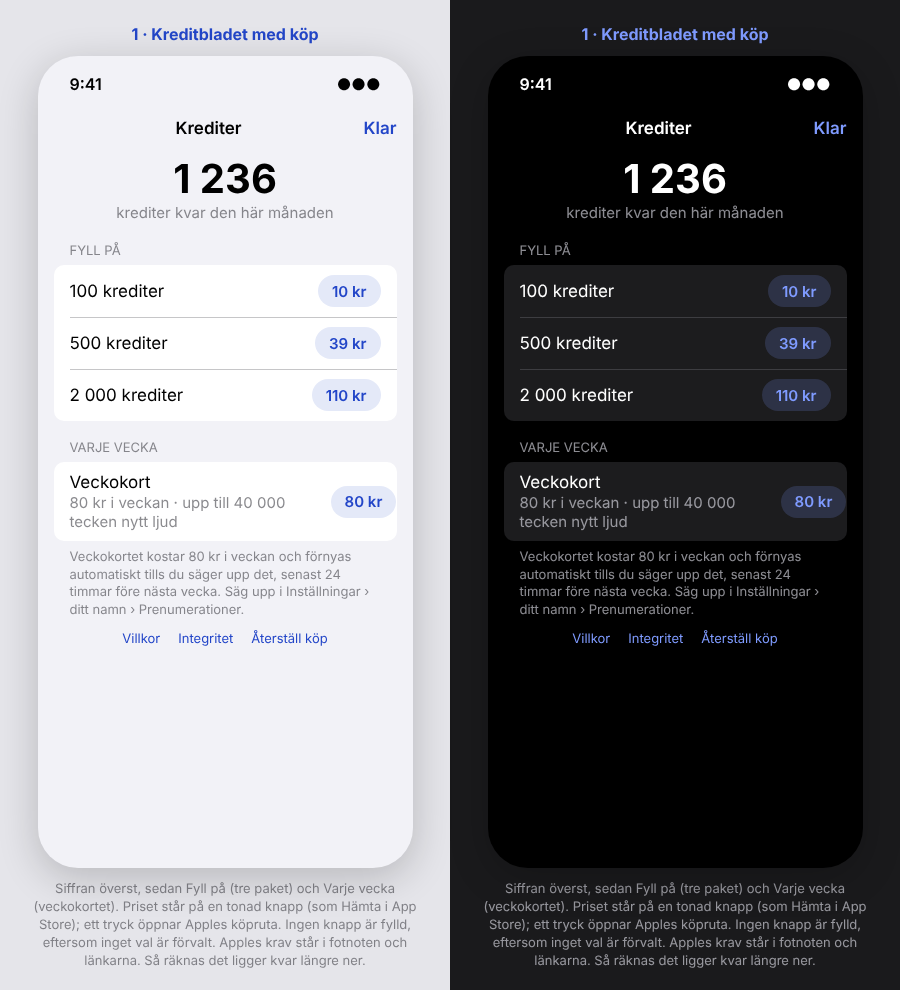
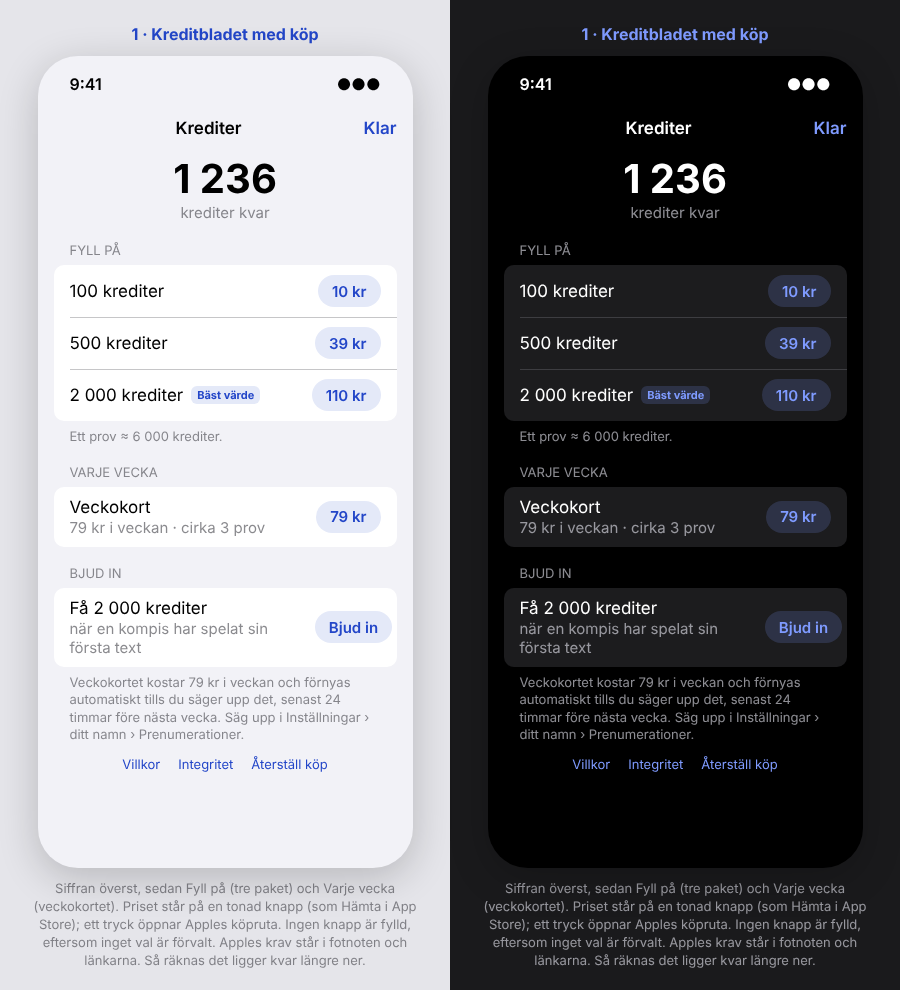
Kelly Ke77 (D224/D222): köpdelen med 79 kr, Bäst värde, välkomstkrediter och Bjud in; Ke78-rapport (utkast på grenen kelly/ke78-integritet, ej publicerat)
Claude-Session: https://claude.ai/code/session_01Pb1HG91PQFHjhJ97bHuAkn

diff --git a/docs/design/_src/kop.html b/docs/design/_src/kop.html
@@ -184,34 +184,40 @@ const senaste = `<div class="chips"><b>Senaste</b><span>HISTORIA – 1880–1918
 // ===== Ke73 (D218, D214) =====
 const price = (t, filled = false) => `<span style="flex:none;display:inline-flex;align-items:center;height:32px;padding:0 14px;border-radius:16px;font-size:15px;font-weight:600;${filled ? 'background:var(--tint);color:var(--ontint)' : 'background:var(--tintsoft);color:var(--tint)'}">${t}</span>`;
 const sheetTop = (title = 'Krediter') => `<div class="nav"><span></span><span class="t">${title}</span><a class="b">Klar</a></div>`;
-const legal = `<div class="sf">Veckokortet kostar 80 kr i veckan och förnyas automatiskt tills du säger upp det, senast 24 timmar före nästa vecka. Säg upp i Inställningar › ditt namn › Prenumerationer.</div>
+const legal = `<div class="sf">Veckokortet kostar 79 kr i veckan och förnyas automatiskt tills du säger upp det, senast 24 timmar före nästa vecka. Säg upp i Inställningar › ditt namn › Prenumerationer.</div>
   <div style="display:flex;justify-content:center;gap:18px;font-size:13px;padding:12px 0 0"><span class="tintc">Villkor</span><span class="tintc">Integritet</span><span class="tintc">Återställ köp</span></div>`;
+const badge = '<span style="font-size:11px;font-weight:700;color:var(--tint);background:var(--tintsoft);border-radius:6px;padding:2px 6px;margin-left:8px;vertical-align:2px">Bäst värde</span>';
 const packs = `<div class="sh">Fyll på</div><div class="sec">
   <div class="row">100 krediter<span class="v">${price('10 kr')}</span></div>
   <div class="row">500 krediter<span class="v">${price('39 kr')}</span></div>
-  <div class="row">2 000 krediter<span class="v">${price('110 kr')}</span></div></div>
-  <div class="sh">Varje vecka</div><div class="sec"><div class="row"><div>Veckokort<div class="sub">80 kr i veckan · upp till 40 000 tecken nytt ljud</div></div><span class="v">${price('80 kr')}</span></div></div>`;
-
+  <div class="row"><span>2 000 krediter${badge}</span><span class="v">${price('110 kr')}</span></div></div>
+  <div class="sf">Ett prov ≈ 6 000 krediter.</div>
+  <div class="sh">Varje vecka</div><div class="sec"><div class="row"><div>Veckokort<div class="sub">79 kr i veckan · cirka 3 prov</div></div><span class="v">${price('79 kr')}</span></div></div>
+  <div class="sh">Bjud in</div><div class="sec"><div class="row"><div>Få 2 000 krediter<div class="sub">när en kompis har spelat sin första text</div></div><span class="v">${price('Bjud in')}</span></div></div>`;
 add('blad', '1 · Kreditbladet med köp', 'Siffran överst, sedan Fyll på (tre paket) och Varje vecka (veckokortet). Priset står på en tonad knapp (som Hämta i App Store); ett tryck öppnar Apples köpruta. Ingen knapp är fylld, eftersom inget val är förvalt. Apples krav står i fotnoten och länkarna. Så räknas det ligger kvar längre ner.',
   () => `<div class="phone g">${status}${sheetTop()}<div class="content" style="padding-top:0">
-  <div style="text-align:center;padding:4px 0 2px"><div style="font-size:40px;font-weight:700">1 236</div><div style="font-size:15px;color:var(--sec)">krediter kvar den här månaden</div></div>
+  <div style="text-align:center;padding:4px 0 2px"><div style="font-size:40px;font-weight:700">1 236</div><div style="font-size:15px;color:var(--sec)">krediter kvar</div></div>
   ${packs}${legal}</div></div>`);
+
+add('valkommen', '0 · Första gången: välkomstkrediter', 'Kapseln visar 5 000 från början. Ingen ruta och ingen förklaring på första skärmen; i bladet står en rad om att det är välkomstkrediter.',
+  () => `<div class="phone g">${status}${sheetTop()}<div class="content" style="padding-top:0">
+  <div style="text-align:center;padding:4px 0 2px"><div style="font-size:40px;font-weight:700">5 000</div><div style="font-size:15px;color:var(--sec)">välkomstkrediter</div></div>${packs}</div></div>`);
 
 add('slut', '2 · Krediterna räcker inte', 'Raden vid Spela får "Fyll på" som länk. Den öppnar bladet. Inget mer på första skärmen.',
   () => `<div class="phone g">${status}${topBar('88 krediter kvar')}<div class="content">
   <div class="card2">${field(SAMPLE, 3, { min: true })}<div class="cost warn">120 krediter · du har 88 · <span style="color:#7F9BFF">Fyll på</span></div>${row({ go: false })}</div>
   ${nasta(true)}</div>${tb}</div>`);
 
-add('vecka', '3 · Med veckokort', 'Kapseln visar "Obegränsat". Bladet säger till när och vad som är kvar av veckans tak, och var man hanterar kortet. Paketen ligger kvar under, för den som vill.',
+add('vecka', '3 · Med veckokort', 'Kapseln visar "Veckokort" (D222). Bladet säger till när och vad som är kvar av veckans tak, och var man hanterar kortet. Paketen ligger kvar under, för den som vill.',
   () => `<div class="phone g">${status}${sheetTop()}<div class="content" style="padding-top:0">
-  <div style="text-align:center;padding:4px 0 2px"><div style="font-size:30px;font-weight:700">Obegränsat</div><div style="font-size:15px;color:var(--sec)">till 24 nov · 36 200 tecken kvar den här veckan</div></div>
+  <div style="text-align:center;padding:4px 0 2px"><div style="font-size:30px;font-weight:700">Veckokort</div><div style="font-size:15px;color:var(--sec)">till 24 nov · 16 200 av 20 000 tecken kvar i veckan</div></div>
   <div class="sec" style="margin-top:14px"><div class="row tintc">Hantera veckokortet</div></div>
-  <div class="sf">Förnyas automatiskt den 24 nov för 80 kr.</div>
+  <div class="sf">Förnyas automatiskt den 24 nov för 79 kr.</div>
   <div class="sh">Fyll på</div><div class="sec"><div class="row">100 krediter<span class="v">${price('10 kr', false)}</span></div><div class="row">500 krediter<span class="v">${price('39 kr', false)}</span></div><div class="row">2 000 krediter<span class="v">${price('110 kr', false)}</span></div></div>
   <div style="display:flex;justify-content:center;gap:18px;font-size:13px;padding:12px 0 0"><span class="tintc">Villkor</span><span class="tintc">Integritet</span><span class="tintc">Återställ köp</span></div></div></div>`);
 
-add('vecka-hem', '4 · Första skärmen med veckokort', 'Kapseln "Obegränsat". Kostnadsraden säger "Ingår". Allt annat som i Ke72.',
-  () => `<div class="phone g">${status}${topBar('Obegränsat')}<div class="content">
+add('vecka-hem', '4 · Första skärmen med veckokort', 'Kapseln "Veckokort". Kostnadsraden säger "Ingår". Allt annat som i Ke72.',
+  () => `<div class="phone g">${status}${topBar('Veckokort')}<div class="content">
   <div class="card2">${field(SAMPLE, 3, { min: true })}<div class="cost">Ingår</div>${row()}</div>${nasta(false)}</div>${tb}</div>`);
 
 add('se-kop', '5 · iPhone SE, största text', 'Raderna staplas: paketets namn över, prisknappen under, vänsterställd. Fotnoten och länkarna går att skrolla till.',

diff --git a/docs/design/kop.md b/docs/design/kop.md
@@ -1,37 +1,54 @@
-# Köp: kreditpaket och veckokort (Kelly (moln), Ke73, D218/D214, 2026-11-17)
+# Köp: kreditpaket och veckokort (Kelly (moln), Ke73 + Ke77, D218/D222/D224, 2026-11-17)
 
-Ett förslag till Angela Fable (A134). Bygger på kreditbladet (Ke71) och första skärmen (Ke72). Skisser i
+Ett förslag till Angela Fable (A134, A141). **Ke77 (D224):** veckokortet 79 kr och 20 000 tecken, "Bäst värde",
+ett prov ≈ 6 000 krediter, välkomstkrediter och inbjudan; kapseln "Veckokort" i stället för "Obegränsat" (D222). Bygger på kreditbladet (Ke71) och första skärmen (Ke72). Skisser i
 `bilder/kop/<id>.png` (ljust | mörkt), källa `_src/kop.html`, render `node docs/design/_src/kop-render.js`.
 **Skisser, inget byggt, inga riktiga köp** (StoreKit-konfigurationsfil i simulatorn, D218). Priserna sätts i App Store
 Connect, inte i koden; appen visar `Product.displayPrice`.
 
 ## 1. Kreditbladet med köp (`blad.png`)
-Uppifrån: rubrik **Krediter** · **Klar**, siffran **{1 236}** och **"krediter kvar den här månaden"**, sedan:
+Uppifrån: rubrik **Krediter** · **Klar**, siffran **{1 236}** och **"krediter kvar"**, sedan:
 | Avsnitt | Rad | Knapp |
 |---|---|---|
 | **FYLL PÅ** | 100 krediter | **10 kr** |
 | | 500 krediter | **39 kr** |
-| | 2 000 krediter | **110 kr** |
-| **VARJE VECKA** | **Veckokort** · *80 kr i veckan · upp till 40 000 tecken nytt ljud* | **80 kr** |
+| | 2 000 krediter · märket **Bäst värde** | **110 kr** |
+| *fotnot* | Ett prov ≈ 6 000 krediter. | |
+| **VARJE VECKA** | **Veckokort** · *79 kr i veckan · cirka 3 prov* | **79 kr** |
+| **BJUD IN** | **Få 2 000 krediter** · *när en kompis har spelat sin första text* | **Bjud in** (delningsbladet) |
+
+"Bäst värde" är ett litet tonat märke efter namnet, inte en fylld knapp. "Cirka 3 prov" = 20 000 / 6 000 (D224);
+taket står exakt i fotnoten och i villkoren.
 
 Prisknapparna är **tonade kapslar** (som "Hämta" i App Store), inte fyllda: inget val är förvalt. Ett tryck öppnar Apples
 köpruta (`product.purchase()`); under köpet visar knappen en snurra.
 
 Under: **fotnoten** (Apples krav för prenumerationer, riktlinje 3.1.2):
-"Veckokortet kostar 80 kr i veckan och förnyas automatiskt tills du säger upp det, senast 24 timmar före nästa vecka. Säg upp
+"Veckokortet kostar 79 kr i veckan och förnyas automatiskt tills du säger upp det, senast 24 timmar före nästa vecka. Säg upp
 i Inställningar › ditt namn › Prenumerationer."
 och länkraden **Villkor · Integritet · Återställ köp** (`AppStore.sync()`). Sist avsnittet **SÅ RÄKNAS DET** från Ke71.
+
+## 1b. Första gången (`valkommen.png`)
+Ett nytt konto har **5 000 välkomstkrediter** (en gång per telefon, D224). Kapseln på första skärmen visar **"5 000
+krediter kvar"** som vanligt; ingen ruta och ingen förklaring där. I bladet står under siffran **"välkomstkrediter"** i
+stället för "krediter kvar" tills de är slut. När månadens 1 500 läggs till står det "krediter kvar" igen.
+
+## 1c. Bjud in
+Raden **Bjud in** öppnar delningsbladet med en länk. Texten i länken: **"Plugga med EarMind. Du får 5 000 krediter att
+börja med."** När kompisen har spelat sin första text: en rad överst i bladet nästa gång, **"+2 000 krediter. {Namn}
+har börjat."** (utan namn om kompisen inte visar något: **"+2 000 krediter för en inbjudan."**). Efter 10 inbjudningar
+i månaden: undertexten blir **"Du har bjudit in 10 i månaden. Fler ger krediter nästa månad."** och knappen finns kvar.
 
 ## 2. Krediterna räcker inte (`slut.png`)
 Raden vid Spela (Ke72) får en länk: **"{120} krediter · du har {88} · Fyll på"**. "Fyll på" öppnar bladet. Vid 402
 från servern: samma rad (D212).
 
 ## 3. Med veckokort (`vecka.png`, `vecka-hem.png`)
-- Kapseln: **"Obegränsat"**. Kostnadsraden vid Spela: **"Ingår"**.
-- Bladet: **"Obegränsat"** stort, under **"till {24 nov} · {36 200} tecken kvar den här veckan"**, raden **Hantera
-  veckokortet** (`showManageSubscriptions`), fotnoten **"Förnyas automatiskt den {24 nov} för 80 kr."**, och paketen under
+- Kapseln: **"Veckokort"** (D222; "Obegränsat" bara för admin, D216). Kostnadsraden vid Spela: **"Ingår"**.
+- Bladet: **"Veckokort"** stort, under **"till {24 nov} · {16 200} av 20 000 tecken kvar i veckan"**, raden **Hantera
+  veckokortet** (`showManageSubscriptions`), fotnoten **"Förnyas automatiskt den {24 nov} för 79 kr."**, och paketen under
   (tonade) med samma länkrad.
-- När veckans 40 000 tecken är slut: kostnadsraden **"Veckans tak är nått · Fyll på"** och Spela grå tills nästa vecka
+- När veckans 20 000 tecken är slut: kostnadsraden **"Veckans tak är nått · Fyll på"** och Spela grå tills nästa vecka
   eller ett paket.
 
 ## 4. Största text (`se-kop.png`)
@@ -40,20 +57,26 @@ Raderna staplas: namnet över, prisknappen under, vänsterställd. Fotnoten och 
 ## 5. Texter
 | Ställe | Text |
 |---|---|
-| Avsnitt | FYLL PÅ · VARJE VECKA · SÅ RÄKNAS DET |
+| Avsnitt | FYLL PÅ · VARJE VECKA · BJUD IN · SÅ RÄKNAS DET |
 | Paket | {100} krediter · *knapp* {10 kr} |
-| Veckokort | Veckokort · {80 kr} i veckan · upp till 40 000 tecken nytt ljud |
-| Fotnot | Veckokortet kostar {80 kr} i veckan och förnyas automatiskt tills du säger upp det, senast 24 timmar före nästa vecka. Säg upp i Inställningar › ditt namn › Prenumerationer. |
-| Länkar | Villkor · Integritet · Återställ köp |
+| Märke | Bäst värde (bara på 2 000) |
+| Fotnot under paketen | Ett prov ≈ 6 000 krediter. |
+| Veckokort | Veckokort · {79 kr} i veckan · cirka 3 prov |
+| Fotnot (krav 3.1.2) | Veckokortet kostar {79 kr} i veckan och förnyas automatiskt tills du säger upp det, senast 24 timmar före nästa vecka. Säg upp i Inställningar › ditt namn › Prenumerationer. |
+| Länkar | Villkor · Integritet · Återställ köp (Villkor → earmind.vercel.app/villkor, Integritet → /integritet, Ke78, när Aron har sagt ja) |
+| Första gången, bladet | 5 000 · välkomstkrediter |
+| Bjud in, rad | Få 2 000 krediter · när en kompis har spelat sin första text · *knapp* Bjud in |
+| Bjud in, länktext | Plugga med EarMind. Du får 5 000 krediter att börja med. |
+| Inbjudan klar | +2 000 krediter. {Namn} har börjat. / +2 000 krediter för en inbjudan. |
+| Tio i månaden | Du har bjudit in 10 i månaden. Fler ger krediter nästa månad. |
 | Räcker inte | {120} krediter · du har {88} · Fyll på |
-| Med veckokort, kapsel / kostnad | Obegränsat / Ingår |
-| Med veckokort, bladet | Obegränsat · till {24 nov} · {36 200} tecken kvar den här veckan · Hantera veckokortet · Förnyas automatiskt den {24 nov} för {80 kr}. |
+| Med veckokort, kapsel / kostnad | Veckokort / Ingår |
+| Med veckokort, bladet | Veckokort · till {24 nov} · {16 200} av 20 000 tecken kvar i veckan · Hantera veckokortet · Förnyas automatiskt den {24 nov} för {79 kr}. |
 | Veckans tak nått | Veckans tak är nått · Fyll på |
 | Köpet misslyckades | Köpet gick inte igenom. Inget har dragits. |
 | Återställ, inget att hämta | Det fanns inga köp att hämta. |
 
-## 6. Till Deangelo: ordet "Obegränsat"
-Veckokortet har ett tak (40 000 tecken i veckan, D218). "Obegränsat" i kapseln kan läsas som en lovad egenskap som inte
-stämmer, och App Store granskar sådant (riktlinje 2.3 och 3.1.2). Jag visar taket på varje ställe där kortet säljs och
-beskrivs ("upp till 40 000 tecken nytt ljud"). Vill Deangelo vara säker: kapseln **"Veckokort"** i stället för
-"Obegränsat". Jag har ritat "Obegränsat" som uppdraget säger.
+Priserna i texterna är exempel: appen visar `Product.displayPrice` (D218), så "79 kr" kommer från App Store Connect.
+
+## 6. Ordet "Obegränsat" (avgjort, D222)
+Prenumeranter ser **"Veckokort"**. "Obegränsat" finns bara för admin (D216), där det är sant.

diff --git a/prompts/queue/kelly.md b/prompts/queue/kelly.md
@@ -192,7 +192,7 @@ Aron (2026-11-08): demosidan måste bli väldigt bra.
 - [x] klar 2026-11-17 08:31 → reports/2026-11-17-0831-kelly-ke70-vercel-live.md (allt grönt: 200, og-bild, väntelistan och CORS) **Ke70 – Livekontroll av earmind.vercel.app** (effort: low). Lagd av Deangelo 2026-11-17 08:30. Projektet finns nu (Aron raderade ett gammalt, Deangelo skapade `earmind` med rot site/). Kör kelly-site-check.yml: 200, storlek, og-bild, väntelistan med testadress och CORS från earmind.vercel.app. Fynd till rätt kö. Rapport, push.
 - [x] klar 2026-11-17 09:39 → reports/2026-11-17-0939-kelly-granskning-a122-a124.md **Granskning av A122 och A124** (Kelly (moln), på Angela Fables begäran). Godkänt.
 
-- [x] klar 2026-11-17 14:29 → reports/2026-11-17-1429-kelly-ke71-krediter-ord.md (orden i sag-i-airpods.md, A130 godkänd, site/ behöver inget) **Ke71 – Ord för krediter per tecken (D213)** (effort: medium). Lagd av Deangelo 2026-11-17 14:05. Arons beslut: 1 kredit per tecken nytt ljud, 1 500 i månaden. Granska Angela Fables ord i A131 (kapseln, Säg-raden, provkortet, kreditbladet, 402-texten) så att det är lätt att förstå på en gång. Ändra demosidan (site/) där den säger frågor per månad. Bilder, rapport, push.
+- [x] klar 2026-11-17 14:29 → reports/2026-11-17-1429-kelly-ke71-krediter-ord.md (orden i sag-i-airpods.md, A130 godkänd, site/ behöver inget) **Ke71 – Ord för krediter per tecken (D213)** (effort: medium). Lagd av Deangelo 2026-11-17 14:05. Arons beslut: 1 kredit per tecken nytt ljud, 1 500 i månaden. Granska Angela Fables ord i A131 (kapseln, Säg-raden, provkortet, kreditbladet, 402-texten) så att det är lätt att förstå på en gång. Ändra demosidan (site/) där den säger frågor per månad. Bilder, rapport, push. **Klar 21:24** (Kelly (moln)): `reports/2026-11-17-2124-kelly-ke77-kop-d224.md`.
 - [x] klar 2026-11-17 15:00 → reports/2026-11-17-1500-kelly-granskning-a131.md **Granskning av A131** (Kelly (moln)). Godkänt ordagrant; L1 fotnoten skärs av, L2 provkortet och SE inte sedda.
 
 - [x] klar 2026-11-17 18:06 → reports/2026-11-17-1806-kelly-ke72-forsta-skarmen.md (docs/design/forsta-skarmen.md + 8 skisser) **Ke72 – Första skärmen enligt D215** (prio 1, effort: high). Lagd av Deangelo 2026-11-17 18:10. Aron 18:01: första skärmen är viktigast, man ska direkt och väldigt lätt kunna skriva vad AI ska säga och hur länge, och tydliga saker ska inte förklaras. Utgå från reports/2026-11-17-a131-bilder/ och Arons skärmbild reports/apptest/aron-2026-11-17-1348-spela-inget-hander.png. Gör ett förslag (inte flera) i docs/design/forsta-skarmen.md med exakta ord, avstånd och vilken knapp som är fylld, och bilder för: tomt fält, fält med text, lång text (5 rader och skroll), spelar (tid kvar, ⏸), slut på krediter, Senaste-raden, iPhone SE med största text, ljust och mörkt. Pröva också om "⟲ 10 min" kan läsas som "om 10 minuter"; välj ord som inte kan missförstås (D210). Rapport, tavla, push. Angela Fable bygger efter ditt förslag (A132).
@@ -205,6 +205,6 @@ Aron (2026-11-08): demosidan måste bli väldigt bra.
 
 - [x] klar 2026-11-17 20:55 → reports/2026-11-17-2055-kelly-ke76-appstore-granskning.md (docs/appstore/granskning.md; hög: testläget D140 i release) **Ke76 – Underlag till App Store-granskningen (D218 punkt 4)** (effort: high). Lagd av Deangelo 2026-11-17 21:00. I docs/appstore/: (1) beskrivning, undertitel och nyckelord på svenska och engelska, utan påståenden som appen inte klarar och utan något som antyder dold användning; (2) integritetsuppgifterna ("App Privacy") enligt vad appen och servern faktiskt samlar (läs ARCHITECTURE och DECISIONS, D21 samtycke, inget ljud sparas som standard); (3) granskningsanteckningar till Apple: hur samtycket och lyssningsindikatorn fungerar, att Säg i AirPods är synlig uppspelning (D203, D210), testkonto (inga lösenord i repot, skriv bara att Aron lägger in det), prenumerationens villkor. Markera allt du inte kunnat verifiera. Rapport, push.
 
-- [ ] **Ke77 – Ord och bild för välkomstkrediter, inbjudan och 79 kr (D224)** (effort: medium). Lagd av Deangelo 2026-11-17 21:15. Uppdatera docs/design/kop.md: veckokortet 79 kr, 20 000 tecken i veckan (säg det som cirka 3 prov), "Bäst värde" på 2 000, "Ett prov ≈ 6 000 krediter", välkomstkrediterna 5 000 och inbjudan (2 000 till den som bjuder in). Kort, inget självklart förklarat. Bilder, rapport, push.
+- [x] **Ke77 – Ord och bild för välkomstkrediter, inbjudan och 79 kr (D224)** (effort: medium). Lagd av Deangelo 2026-11-17 21:15. Uppdatera docs/design/kop.md: veckokortet 79 kr, 20 000 tecken i veckan (säg det som cirka 3 prov), "Bäst värde" på 2 000, "Ett prov ≈ 6 000 krediter", välkomstkrediterna 5 000 och inbjudan (2 000 till den som bjuder in). Kort, inget självklart förklarat. Bilder, rapport, push.
 
-- [ ] **Ke78 – Integritetspolicy och villkor som sidor på earmind.vercel.app (D218 punkt 4)** (effort: high). Lagd av Deangelo 2026-11-17 21:25. Apple kräver en länk till integritetspolicyn och, för prenumerationen, till villkoren. Skriv /integritet och /villkor (svenska, med engelsk version) utifrån det appen och servern faktiskt gör: samtycke (D21), lyssningsindikatorn, inget ljud sparas som standard, vad som skickas till Anthropic och ElevenLabs, analysloggen (D197, raderas inom 14 dagar), konto och radering, köp och prenumeration (D224), kontakt Rothman Solutions AB. Markera allt du inte kunnat verifiera, så att Aron kan läsa igenom innan det publiceras. Lägg det på en gren och visa bilder; slå inte ihop till main förrän Aron har sagt ja. Rapport, push.
+- [x] **Ke78 – Integritetspolicy och villkor som sidor på earmind.vercel.app (D218 punkt 4)** (effort: high). Lagd av Deangelo 2026-11-17 21:25. Apple kräver en länk till integritetspolicyn och, för prenumerationen, till villkoren. Skriv /integritet och /villkor (svenska, med engelsk version) utifrån det appen och servern faktiskt gör: samtycke (D21), lyssningsindikatorn, inget ljud sparas som standard, vad som skickas till Anthropic och ElevenLabs, analysloggen (D197, raderas inom 14 dagar), konto och radering, köp och prenumeration (D224), kontakt Rothman Solutions AB. Markera allt du inte kunnat verifiera, så att Aron kan läsa igenom innan det publiceras. Lägg det på en gren och visa bilder; slå inte ihop till main förrän Aron har sagt ja. Rapport, push. **Klar som utkast 21:23** på grenen `kelly/ke78-integritet` (18 overifierade punkter gulmarkerade, inte publicerat): `reports/2026-11-17-2123-kelly-ke78-integritet-villkor.md`.

diff --git a/docs/STATUS.md b/docs/STATUS.md
@@ -103,6 +103,8 @@ Last updated: 2026-11-08 by Angela (builder).
 - **Angela Schrute (moln), 2026-11-15 04:03: Toby 2:s T24-fynd L2–L6 klara, iOS build 43670110088 grön (8a521b1), ej verifierat på enhet.** Ett importerat prov namnges efter första frågan, ChatGPTs inledning och avslutning hoppas över tyst, `model.quotaIsKnown` för Nytt prov (vyn: Angela Fable), "Ljudet kan inte göras just nu" vid första otillgängliga fil (orsaken till 40 s inte hittad), "Ljudet dröjer" efter 20 s utan nytt ljud. Kvar i kön: A3 (väntar på K6). → `reports/2026-11-15-0400-angela-t24-fynd-l2-l6.md`
 - **Angela Schrute (moln), 2026-11-15 03:52: A105 klar, läslägets logik (D185, D188), iOS build 43667072023 grön (ec54ced), ej verifierat på enhet.** En text är ett prov med `kind` text och delar ur K70 (/exam read, /drill save/get med meningar och tider), nedladdad och spelbar utan nät. `ReadingPlayer`: 1 tryck pausa/fortsätt från meningens början, 2 nästa mening, 3 förra, via AirPods, Kontrollcenter och skärmen; tryck på en mening; slutet stannar med Börja om; platsen sparas per text; låsskärmen visar rubriken. 22 tester. Vyerna är Angela Fables A106, sedan Toby 1 T28. → `reports/2026-11-15-0325-angela-a105-laslage.md`
 - **Angela Schrute (moln), 2026-11-15 03:13: A103 klar, iOS build 43664558381 grön (982a976), ej verifierat på enhet.** Ett nedladdat prov spelas helt utan nät (D186): ljudet i Application Support utanför iCloud-säkerhetskopian, oanvända filer bort vid start, nedladdningen väntar på nätet och fortsätter själv, full telefon sägs, `RepetitionModel.isOffline` och en text för inget nät. Toby 1 T27 nästa. A105 (läsläget) pågår. → `reports/2026-11-15-0313-angela-a103-utan-nat.md`
+- **Kelly (moln), 2026-11-17 21:24: Ke77 klar.** Köpdelen enligt D224/D222: veckokort 79 kr ("cirka 3 prov"), "Bäst värde" på 2 000, "Ett prov ≈ 6 000 krediter", välkomstkrediter (5 000) och Bjud in (2 000), kapseln "Veckokort" för prenumeranter. `docs/design/kop.md`, rapport `reports/2026-11-17-2124-kelly-ke77-kop-d224.md`.
+- **Kelly (moln), 2026-11-17 21:23: Ke78 utkast, inte publicerat.** /integritet och /villkor på grenen `kelly/ke78-integritet`, 18 overifierade punkter gulmarkerade (bl.a. org.nr, testläget D140, radera konto i appen, 14 dagar eller "efter leverans"). **Aron läser och säger ja** innan grenen slås ihop. Rapport `reports/2026-11-17-2123-kelly-ke78-integritet-villkor.md`.
 - **Kelly (moln), 2026-11-17 20:58: Ke74 klar.** 5 App Store-förslag (`docs/appstore/69-*.jpg`, Pro Max men nedskalade, rubriker utan låst skärm) och demosidan med nya första skärmen som steg 1. **Vercel publicerar från grenen kelly/ke66-earmind-site, inte main**: grenen snabbspolad; Production Branch bör ändras till main (Aron/Deangelo). Rapport `reports/2026-11-17-2058-kelly-ke74-appstore-demosida.md`.
 - **Kelly (moln), 2026-11-17 20:55: Ke76 klar.** Underlaget till App Store-granskningen i `docs/appstore/granskning.md`: texter på svenska och engelska, integritetsuppgifter (spårning nej, anonymt konto), granskningsanteckningar på engelska; allt overifierat markerat. **Före inskickning:** testläget (D140) bort ur release eller deklareras (hög), kamerans Info.plist-text är fel, integritetspolicy saknas, åldersgräns med Rizz. Rapport `reports/2026-11-17-2055-kelly-ke76-appstore-granskning.md`.
 - **Kelly (moln), 2026-11-17 20:36: Ke73 klar.** Köpdelen (D218) i `docs/design/kop.md` med 5 skisser: paketen 100/500/2 000 och veckokortet i kreditbladet med tonade prisknappar, Apples krav (förnyelse, uppsägning, Villkor/Integritet/Återställ köp), "Fyll på" vid Spela. **Risk till Deangelo:** "Obegränsat" med ett tak på 40 000 tecken i veckan kan ses som vilseledande. Villkor- och integritetssidor behövs före inlämning. Rapport `reports/2026-11-17-2036-kelly-ke73-kop.md`.

diff --git a/reports/2026-11-17-2123-kelly-ke78-integritet-villkor.md b/reports/2026-11-17-2123-kelly-ke78-integritet-villkor.md
@@ -1,0 +1,51 @@
+# Ke78: integritetspolicy och villkor som sidor (Kelly (moln), 2026-11-17)
+
+**UTKAST på grenen `kelly/ke78-integritet` (commit d408604). Inte ihopslaget med main och inte publicerat.** Aron läser
+och säger ja först.
+
+## Vad som gjordes
+- `docs/legal/integritet.md` och `docs/legal/villkor.md`: texterna (svenska först, kort engelsk version under), skrivna
+  utifrån koden, besluten (D21, D135, D140, D197, D213, D218, D224) och servern.
+- `scripts/site/legal-page.py`: gör `site/integritet.html` och `site/villkor.html` av markdown-filerna, i demosidans stil
+  (ljust/mörkt). Det som inte är verifierat skrivs `[[O: …]]` i källan och syns som **gul markering "Overifierat: …"**,
+  med en gul utkastruta överst och `noindex`. `python3 scripts/site/legal-page.py --publish` vägrar så länge någon
+  markering finns kvar.
+- Adresser när de publiceras: `earmind.vercel.app/integritet` och `/villkor` (cleanUrls i vercel.json).
+
+## Bilder (iPhone 15 i Chromium, ingen sidled skroll)
+`reports/2026-11-17-ke78-bilder/integritet-light.jpg`, `integritet-dark.jpg`, `villkor-light.jpg`, `villkor-dark.jpg`.
+
+## Overifierat (18 markeringar: 13 i integritet, 5 i villkor) – Aron eller Deangelo svarar
+**Integritet**
+1. Organisationsnummer och postadress för Rothman Solutions AB saknas.
+2. Att lagringen av foton töms efter varje prov (K53) är inte kontrollerat i databasen.
+3. Analysen av frågor och svar: uppdraget säger "raderas inom 14 dagar", D197 säger "efter leverans". Aron väljer.
+4. Om sammanfattningen i Fler lägen sparas på telefonen eller servern.
+5. **Testläget (D140)** skickar bakgrundsljud. Ska bort ur App Store-versionen; finns det kvar måste det stå i policyn.
+6. ElevenLabs: land och avtal för överföring.
+7. Överföring till USA: standardavtalsklausuler eller Data Privacy Framework, per leverantör.
+8. Hur länge loggarna (utan text) sparas.
+9. **Knapp för att radera kontot i appen saknas** (Apple 5.1.1(v) kräver den om appen räknas ha konton; ett anonymt
+   konto kan räknas).
+10. Åldersgräns (13 år i texten, App Store-gränsen inte bestämd).
+11–13. Samma punkter i den engelska delen (lagring, analys, organisationsnummer).
+
+**Villkor**
+14. Välkomstkrediterna (5 000, D224) är inte byggda.
+15. Inbjudan (2 000, max 10/månad) är inte byggd.
+16. Om köpta krediter förfaller.
+17. Organisationsnummer och adress.
+18. Engelska: välkomst och inbjudan inte byggda.
+
+Märkning: innehållet om anonymt konto, Supabase i Stockholm/Frankfurt, att Starta prov och Säg aldrig använder
+mikrofonen, samtycke före mikrofon (D21) och att EarMind inte sparar ljud är **verifierat i docs/kod**. Inget är
+**verifierat på telefon**. Juridisk granskning är inte gjord (**untested assumption** att texten räcker för Apple och GDPR).
+
+## Så publiceras det (efter Arons ja)
+1. Rätta eller stryk varje `[[O: …]]` i `docs/legal/*.md`.
+2. `python3 scripts/site/legal-page.py --publish` (måste gå igenom).
+3. Slå ihop grenen till main **och** snabbspola `kelly/ke66-earmind-site` (Vercels produktionsgren).
+4. Lägg in `https://earmind.vercel.app/integritet` i App Store Connect och länkarna i köpbladet (A134).
+
+## Nästa
+Ke77 (köpdelen) i samma runda; sedan granskning av A133/A135/A136 när bilderna kommer.

diff --git a/prompts/queue/BOARD.md b/prompts/queue/BOARD.md
@@ -24,5 +24,5 @@ Kolumnerna:
 | Toby (apptest) | Opus 5.5 (claude-opus-5-5) | (sessionens inställning) | Toby 1: lokal: överlämnad till molnet · Toby 2: lokal: överlämnad till molnet | Toby 1: lokal: överlämnad till molnet 02:48 · Toby 2: lokal: överlämnad till molnet (T24 på toby/t24 b903f59, två testpubliceringar väntar på Arons besked; docs/HANDOVER-toby.md) | Toby 1: T26: T17 48/50 tre gånger, fynd 9/9b 10/10; D184, T27, T28 till molnet · Toby 2: T24 (43661618294): hela flödet med två konton går, D183 omtestat grönt; fynd L1–L6 till Angela Schrute, V1–V4 till Angela Fable → reports/apptest/2026-11-15-0250-toby2-t24-hela-flodet.md | Toby 1: 2026-11-15 02:48 · Toby 2: 2026-11-15 02:48 | Toby 1: docs/HANDOVER-toby.md · Toby 2: simulatorn, inte enhet |
 | Toby (moln) | Opus 5.5 (claude-opus-5-5) | medium | T51 (A137): nattflödet 44163428569 på grenen körs (högst 2 maskiner); T46: T36-testet för A132 körs på toby/t46 (44163010444) | pågår | **20:40:** T45 klar: A128-grenen alla sex gröna (T24 och T30 testmiljön första gången, gröna i omkörningen 44153981780), besked i angela.md. T47 klar: nattflödet max-parallel 2, och nytt val `only` för att köra om enstaka tester. T46: det mesta i A132 håller i Simulator (Spela på kortet, tid kvar, Stoppa, Senaste lägger tillbaka texten, inget Nästa prov); Pausa på kortet och fältets 5 rader körs om. T44 väntar på Kevin. **Aron:** testpubliceringen 3afc21d0 finns kvar, tas bort bara på ditt ja. |
 | Kelly (demosida) | Opus 5.5 (claude-opus-5-5) | (sessionens inställning) | – | lokal: överlämnad till molnet | Ke49–Ke62 klara; överlämning i docs/HANDOVER-KELLY.md; grenen kelly/ke60-earmind-site väntar på Arons ja. API 0 USD | 2026-11-15 03:06 | Kelly (moln) tar över |
-| Kelly (moln) | Opus 5.5 (claude-opus-5-5) | high | väntar på A133/A135/A136-bilder; kollar att Vercel visar Ke74 | väcker sig var 30:e minut | Ke74 klar: 5 App Store-förslag och demosidan med nya första skärmen; Vercel publicerar från kelly/ke66-earmind-site (snabbspolad), bör vara main | 2026-11-17 20:58 | 22 punkter klara |
+| Kelly (moln) | Opus 5.5 (claude-opus-5-5) | high | väntar på A133/A135/A136-bilder och Arons ja till Ke78 | väcker sig var 30:e minut | Ke78 utkast på grenen kelly/ke78-integritet (/integritet, /villkor, 18 overifierade punkter, ej publicerat); Ke77 klar: 79 kr, Bäst värde, välkomstkrediter, Bjud in, kapseln "Veckokort" | 2026-11-17 21:24 | 24 punkter klara |
 | Ryan (annonser) | – | – | R1 konton och spårning | ny | – | – | – |

diff --git a/reports/2026-11-17-2124-kelly-ke77-kop-d224.md b/reports/2026-11-17-2124-kelly-ke77-kop-d224.md
@@ -1,0 +1,25 @@
+# Ke77: 79 kr, välkomstkrediter och inbjudan i köpdelen (Kelly (moln), 2026-11-17, D224)
+
+## Vad som gjordes
+`docs/design/kop.md` och skisserna (`_src/kop.html`, `bilder/kop/`) följer D224 och D222:
+- **Veckokort 79 kr**, undertext "79 kr i veckan · cirka 3 prov" (20 000 tecken / ≈ 6 000 per prov). Det exakta taket står
+  i bladet med veckokort ("16 200 av 20 000 tecken kvar i veckan") och i villkoren.
+- **"Bäst värde"** som litet tonat märke på 2 000 krediter. Fotnot under paketen: **"Ett prov ≈ 6 000 krediter."**
+- **Välkomstkrediter** (ny skiss `valkommen.png`): kapseln visar 5 000 som vanligt; i bladet står "välkomstkrediter"
+  under siffran. Ingen ruta på första skärmen.
+- **Bjud in**: nytt avsnitt "Få 2 000 krediter · när en kompis har spelat sin första text" med knappen Bjud in
+  (delningsbladet), länktext, raden när inbjudan gett krediter, och texten vid 10 i månaden.
+- **Kapseln "Veckokort"** för prenumeranter (D222) i `vecka.png` och `vecka-hem.png`; "Obegränsat" bara för admin.
+- Texttabellen i kop.md uppdaterad; länkarna Villkor/Integritet pekar på Ke78-sidorna (när de är publicerade).
+
+## Test
+Skisserna renderade (`node docs/design/_src/kop-render.js`, ljust och mörkt) och granskade som bild: inga texter som
+spiller över, ingen fylld prisknapp. **Inget byggt i appen**, inget provat på telefon.
+
+## Begränsningar
+- "Cirka 3 prov" bygger på D224:s uppskattning 5 700–6 200 tecken per prov (**untested assumption** för korta prov).
+- Hur inbjudan räknas (ny telefon, första text) är serverns sak (Kevin); texten följer D224.
+- Priserna visas från `Product.displayPrice`; "79 kr" i skisserna är exempel.
+
+## Nästa
+Angela Fable bygger A134/A141 efter kop.md. Kelly granskar bilderna när de kommer.
